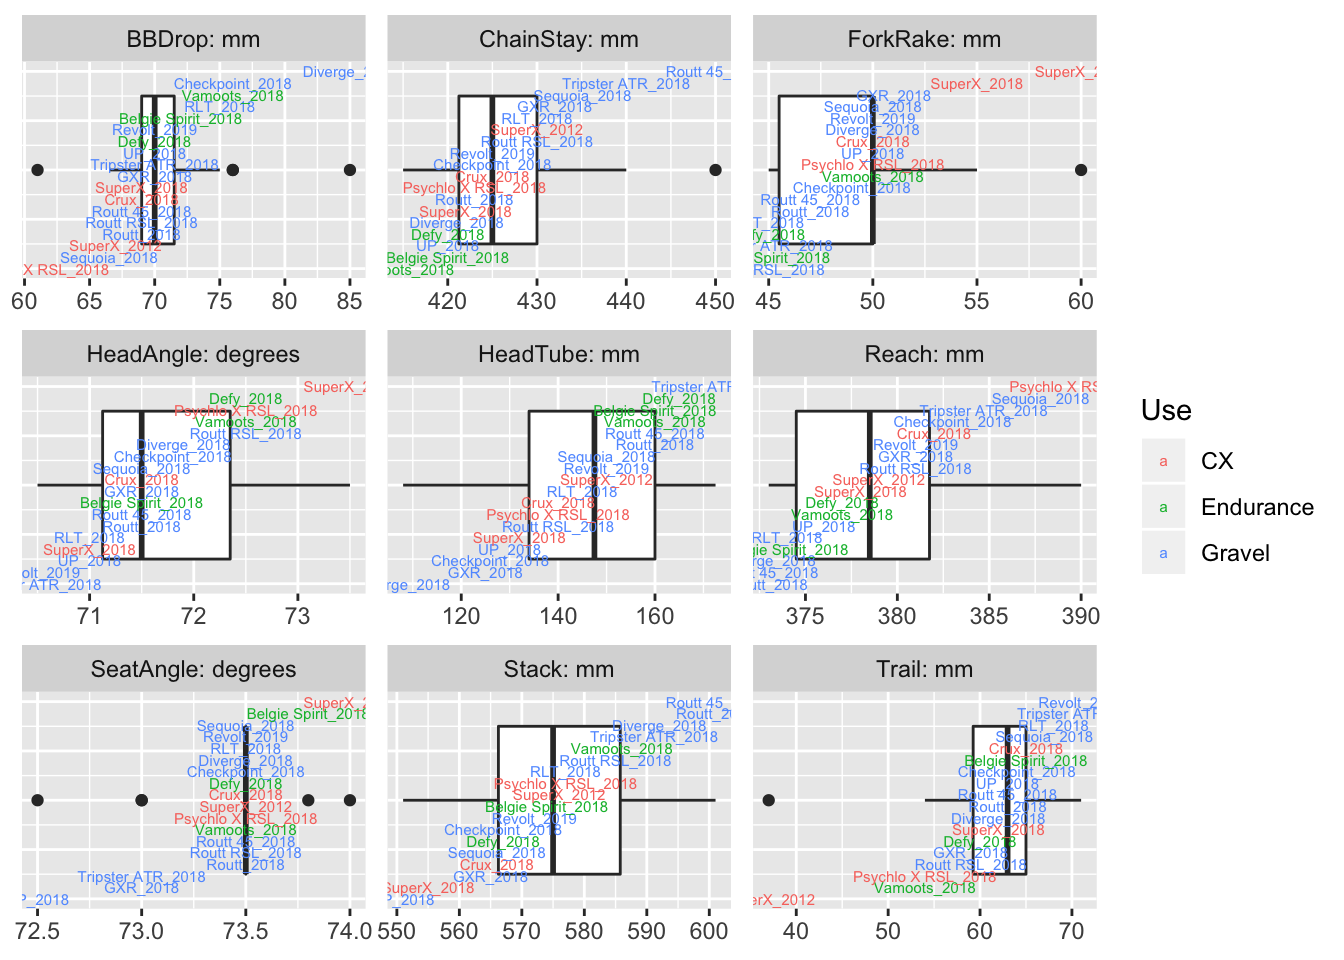
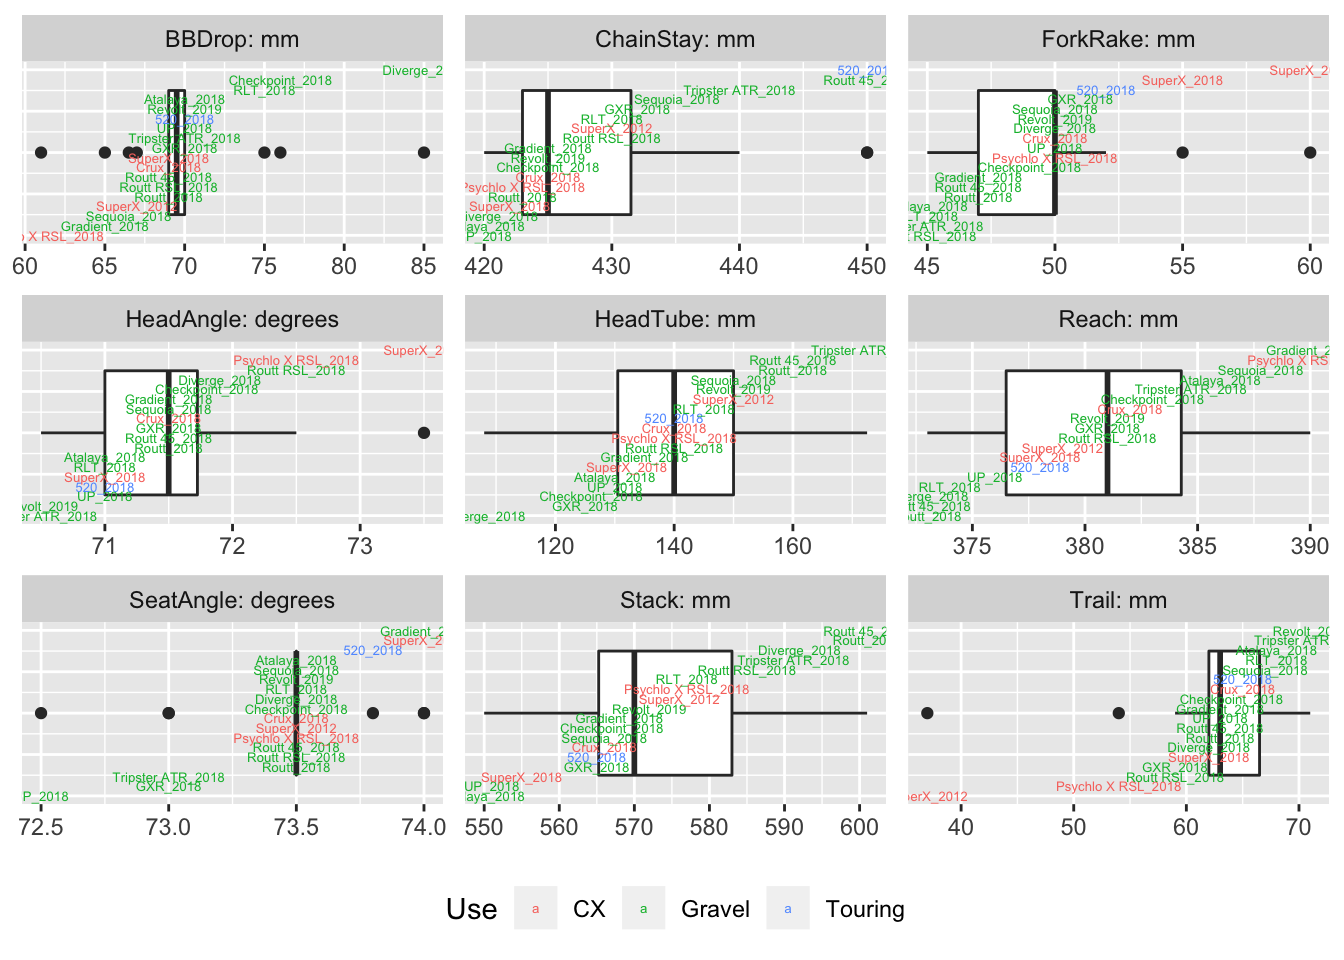
Added atalaya and reilly. Focussed univariate on cx,gravel,touring

diff --git a/public/post/2018-11-08-geometry/index.html b/public/post/2018-11-08-geometry/index.html
@@ -155,31 +155,31 @@ The main guides for the important numbers to chase were:
 <p>Analysing geometries accumulated from the web gives Figure <a href="#fig:pca">1</a> (principal components analysis [pca] on scaled and centred data). The roadies cluster together and appear correlated with high head angle numbers and low chain stay numbers. Then there’s a smear of endurance/gravel bikes with large bottom bracket drop and head tube angles. The CX bikes and mtb bikes are spread on the top half of the figure (with the exception of the Crux_2018). High reach and stack seem correlated with XC. The CX bikes are harder to (visually) correlate with any attribute. The 2012 SuperX is definately an outlier.</p>
 <hr />
 <div class="figure"><span id="fig:pca"></span>
-<img src="/post/2018-11-08-geometry_files/figure-html/pca-1.png" alt="Principal components analysis of key bike geometry values" width="672" />
+<img src="/post/2018-11-08-geometry_files/figure-html/pca-1.png" alt="Principal components analysis of key bike geometry values" width="110%" />
 <p class="caption">
 Figure 1: Principal components analysis of key bike geometry values
 </p>
 </div>
 <hr />
-<p>Here’s the data used in the pca.</p>
-<div id="htmlwidget-1" style="width:100%;height:auto;" class="datatables html-widget"></div>
-<script type="application/json" data-for="htmlwidget-1">{"x":{"filter":"none","data":[["1","2","3","4","5","6","7","8","9","10","11","12","13","14","15","16","17","18","19","20","21","22","23","24","25","26"],["Cannondale","Cannondale","Curve","Curve","Curve","Giant","Giant","Giant","Kinesis","Moots","Moots","Moots","Moots","Moots","Moots","Niner","Niner","Open","Specialized","Specialized","Specialized","Specialized","Specialized","Specialized","Trek","Trek"],["SuperX","SuperX","Belgie","Belgie Spirit","GXR","Defy","Revolt","TCR Ad","Tripster ATR","Psychlo X RSL","Routt","Routt 45","Routt RSL","Vamoots","Vamoots RSL","Air9","RLT","UP","Crux","Diverge","Epic FS","Epic HT","Sequoia","Tarmac","520","Checkpoint"],[2012,2018,2018,2018,2018,2018,2019,2018,2018,2018,2018,2018,2018,2018,2018,2018,2018,2018,2018,2018,2004,2018,2018,2018,2018,2018],["CX","CX","Road","Endurance","Gravel","Endurance","Gravel","Road","Gravel","CX","Gravel","Gravel","Gravel","Endurance","Road","XC","Gravel","Gravel","CX","Gravel","XC","XC","Gravel","Road","Touring","Gravel"],[73.5,74,73.5,73.8,73,73.5,73.5,73,73,73.5,73.5,73.5,73.5,73.5,73.5,73,73.5,72.5,73.5,73.5,74,74,73.5,74,73.8,73.5],[73.5,71,73,71.5,71.5,72.5,70.5,73,70.5,72.5,71.5,71.5,72.5,72.5,73.5,71,71,71,71.5,71.9,70.5,69.8,71.5,73,71,71.8],[67,69,69,72,70,70,70,68,70,61,69,69,69,76,72,54,75,70,69,85,54,61,66.5,72,70,76],[430,422,410,420,432,420,425,405,440,423,423,450,430,415,410,439,430,420,425,421,426,430,435.1,410,450,425],[60,55,45,45,51,45,50,45,45,50,47,47,45,50,43,48,45,50,50,50,57,51,50,44,52,49],[576,555,552,574,565,567,572,545,591.2,577,601,601,585,586,572,617,577,551,566,592,617,608,566,544,565,567],[379,378,381,374,381,377,381,383,384.7,390,373,373,381,377,387,418,374,376,382,373,412,418,387.8,384,378,383],[37,62,56,65,59,60,71,57,71,54,63,63,59,54,55,65,68,63,65,62,59,82,67,58,65,64]],"container":"<table class=\"display\">\n  <thead>\n    <tr>\n      <th> <\/th>\n      <th>Manufacturer<\/th>\n      <th>Frame<\/th>\n      <th>Year<\/th>\n      <th>Use<\/th>\n      <th>SeatAngle<\/th>\n      <th>HeadAngle<\/th>\n      <th>BBDrop<\/th>\n      <th>ChainStay<\/th>\n      <th>ForkRake<\/th>\n      <th>Stack<\/th>\n      <th>Reach<\/th>\n      <th>Trail<\/th>\n    <\/tr>\n  <\/thead>\n<\/table>","options":{"columnDefs":[{"className":"dt-right","targets":[3,5,6,7,8,9,10,11,12]},{"orderable":false,"targets":0}],"order":[],"autoWidth":false,"orderClasses":false}},"evals":[],"jsHooks":[]}</script>
-<hr />
 <p>Focussing on just the gravel (and endurance) bikes gives Figure <a href="#fig:pcaGravel">2</a>. The diverge has a seriously low (large bbdrop) bottom bracket! There doesn’t seem to be much noise about it - only <a href="http://ridinggravel.com/forum/?p=%2Fpost%2F2018-specialized-diverge-bb-too-low-9628528">this</a> intriguing forum post. The UP is close to the middle of everything. Again, the 2012 SuperX is way off compared to the other bikes compared here. It looks like fork rake and head angle are, at least partly, to blame.</p>
 <div class="figure"><span id="fig:pcaGravel"></span>
-<img src="/post/2018-11-08-geometry_files/figure-html/pcaGravel-1.png" alt="PCA for just the grave/endurance bikes" width="672" />
+<img src="/post/2018-11-08-geometry_files/figure-html/pcaGravel-1.png" alt="PCA for just the CX/gravel bikes" width="110%" />
 <p class="caption">
-Figure 2: PCA for just the grave/endurance bikes
+Figure 2: PCA for just the CX/gravel bikes
 </p>
 </div>
 <hr />
-<p>Figure <a href="#fig:uniGeo">3</a> gives a better sense of where a specific bike fits within each geometry attribute. A driver for creating this data set and analysis was to examine the attributes of a 2012 SuperX compared to gravel bikes. It’s clearly an outlier, even among CX bikes, with lowish bbdrop, high fork rake, large head angle and very low trail. The already high bottom bracket is made even higher by running the largest tyres that fit in the frame instead of the 32/33 mm tyres the frame was designed around. Combined, these attributes make the 2012 SuperX skittish at speed on anything loose. It does however handle sharp corners with ease. Time to replace it with something more suitable to its main use - long rides on quiet back roads, fire tracks and trails. The 2018 Defy and UP are closest to the centre of things.</p>
+<p>Figure <a href="#fig:uniGeo">3</a> gives a better sense of where a specific bike fits within each geometry attribute. A driver for creating this data set and analysis was to examine the attributes of a 2012 SuperX compared to gravel bikes. It’s clearly an outlier, even among CX bikes, with lowish bbdrop, high fork rake, large head angle and very low trail. The already high bottom bracket is made even higher by running the largest tyres that fit in the frame instead of the 32/33 mm tyres the frame was designed around. Combined, these attributes make the 2012 SuperX skittish at speed on anything loose. It does however handle sharp corners with ease. Time to replace it with something more suitable to its main use - long rides on quiet back roads, fire tracks and trails.</p>
 <div class="figure"><span id="fig:uniGeo"></span>
-<img src="/post/2018-11-08-geometry_files/figure-html/uniGeo-1.png" alt="Where does each bike fall on each geometry attribute?" width="672" />
+<img src="/post/2018-11-08-geometry_files/figure-html/uniGeo-1.png" alt="Where does each bike fall on each geometry attribute?" width="110%" />
 <p class="caption">
 Figure 3: Where does each bike fall on each geometry attribute?
 </p>
 </div>
+<hr />
+<p>Here’s the data.</p>
+<div id="htmlwidget-1" style="width:100%;height:auto;" class="datatables html-widget"></div>
+<script type="application/json" data-for="htmlwidget-1">{"x":{"filter":"none","data":[["1","2","3","4","5","6","7","8","9","10","11","12","13","14","15","16","17","18","19","20","21","22","23","24","25","26","27","28"],["Atalaya","Cannondale","Cannondale","Curve","Curve","Curve","Giant","Giant","Giant","Kinesis","Moots","Moots","Moots","Moots","Moots","Moots","Niner","Niner","Open","Reilly","Specialized","Specialized","Specialized","Specialized","Specialized","Specialized","Trek","Trek"],["Atalaya","SuperX","SuperX","Belgie","Belgie Spirit","GXR","Defy","Revolt","TCR Ad","Tripster ATR","Psychlo X RSL","Routt","Routt 45","Routt RSL","Vamoots","Vamoots RSL","Air9","RLT","UP","Gradient","Crux","Diverge","Epic FS","Epic HT","Sequoia","Tarmac","520","Checkpoint"],[2018,2012,2018,2018,2018,2018,2018,2019,2018,2018,2018,2018,2018,2018,2018,2018,2018,2018,2018,2018,2018,2018,2004,2018,2018,2018,2018,2018],["Gravel","CX","CX","Road","Endurance","Gravel","Endurance","Gravel","Road","Gravel","CX","Gravel","Gravel","Gravel","Endurance","Road","XC","Gravel","Gravel","Gravel","CX","Gravel","XC","XC","Gravel","Road","Touring","Gravel"],[73.5,73.5,74,73.5,73.8,73,73.5,73.5,73,73,73.5,73.5,73.5,73.5,73.5,73.5,73,73.5,72.5,74,73.5,73.5,74,74,73.5,74,73.8,73.5],[71,73.5,71,73,71.5,71.5,72.5,70.5,73,70.5,72.5,71.5,71.5,72.5,72.5,73.5,71,71,71,71.5,71.5,71.9,70.5,69.8,71.5,73,71,71.8],[70,67,69,69,72,70,70,70,68,70,61,69,69,69,76,72,54,75,70,65,69,85,54,61,66.5,72,70,76],[420,430,422,410,420,432,420,425,405,440,423,423,450,430,415,410,439,430,420,425,425,421,426,430,435.1,410,450,425],[45,60,55,45,45,51,45,50,45,45,50,47,47,45,50,43,48,45,50,47,50,50,57,51,50,44,52,49],[550,576,555,552,574,565,567,572,545,591.2,577,601,601,585,586,572,617,577,551,568,566,592,617,608,566,544,565,567],[386,379,378,381,374,381,377,381,383,384.7,390,373,373,381,377,387,418,374,376,390,382,373,412,418,387.8,384,378,383],[68,37,62,56,65,59,60,71,57,71,54,63,63,59,54,55,65,68,63,63,65,62,59,82,67,58,65,64]],"container":"<table class=\"display\">\n  <thead>\n    <tr>\n      <th> <\/th>\n      <th>Manufacturer<\/th>\n      <th>Frame<\/th>\n      <th>Year<\/th>\n      <th>Use<\/th>\n      <th>SeatAngle<\/th>\n      <th>HeadAngle<\/th>\n      <th>BBDrop<\/th>\n      <th>ChainStay<\/th>\n      <th>ForkRake<\/th>\n      <th>Stack<\/th>\n      <th>Reach<\/th>\n      <th>Trail<\/th>\n    <\/tr>\n  <\/thead>\n<\/table>","options":{"columnDefs":[{"className":"dt-right","targets":[3,5,6,7,8,9,10,11,12]},{"orderable":false,"targets":0}],"order":[],"autoWidth":false,"orderClasses":false}},"evals":[],"jsHooks":[]}</script>
 <hr />
 <div id="acknowledgements" class="section level1">
 <h1>Acknowledgements</h1>

diff --git a/content/post/2018-11-08-geometry.html b/content/post/2018-11-08-geometry.html
@@ -38,31 +38,31 @@ tags:
 <p>Analysing geometries accumulated from the web gives Figure <a href="#fig:pca">1</a> (principal components analysis [pca] on scaled and centred data). The roadies cluster together and appear correlated with high head angle numbers and low chain stay numbers. Then there’s a smear of endurance/gravel bikes with large bottom bracket drop and head tube angles. The CX bikes and mtb bikes are spread on the top half of the figure (with the exception of the Crux_2018). High reach and stack seem correlated with XC. The CX bikes are harder to (visually) correlate with any attribute. The 2012 SuperX is definately an outlier.</p>
 <hr />
 <div class="figure"><span id="fig:pca"></span>
-<img src="/post/2018-11-08-geometry_files/figure-html/pca-1.png" alt="Principal components analysis of key bike geometry values" width="672" />
+<img src="/post/2018-11-08-geometry_files/figure-html/pca-1.png" alt="Principal components analysis of key bike geometry values" width="110%" />
 <p class="caption">
 Figure 1: Principal components analysis of key bike geometry values
 </p>
 </div>
 <hr />
-<p>Here’s the data used in the pca.</p>
-<div id="htmlwidget-1" style="width:100%;height:auto;" class="datatables html-widget"></div>
-<script type="application/json" data-for="htmlwidget-1">{"x":{"filter":"none","data":[["1","2","3","4","5","6","7","8","9","10","11","12","13","14","15","16","17","18","19","20","21","22","23","24","25","26"],["Cannondale","Cannondale","Curve","Curve","Curve","Giant","Giant","Giant","Kinesis","Moots","Moots","Moots","Moots","Moots","Moots","Niner","Niner","Open","Specialized","Specialized","Specialized","Specialized","Specialized","Specialized","Trek","Trek"],["SuperX","SuperX","Belgie","Belgie Spirit","GXR","Defy","Revolt","TCR Ad","Tripster ATR","Psychlo X RSL","Routt","Routt 45","Routt RSL","Vamoots","Vamoots RSL","Air9","RLT","UP","Crux","Diverge","Epic FS","Epic HT","Sequoia","Tarmac","520","Checkpoint"],[2012,2018,2018,2018,2018,2018,2019,2018,2018,2018,2018,2018,2018,2018,2018,2018,2018,2018,2018,2018,2004,2018,2018,2018,2018,2018],["CX","CX","Road","Endurance","Gravel","Endurance","Gravel","Road","Gravel","CX","Gravel","Gravel","Gravel","Endurance","Road","XC","Gravel","Gravel","CX","Gravel","XC","XC","Gravel","Road","Touring","Gravel"],[73.5,74,73.5,73.8,73,73.5,73.5,73,73,73.5,73.5,73.5,73.5,73.5,73.5,73,73.5,72.5,73.5,73.5,74,74,73.5,74,73.8,73.5],[73.5,71,73,71.5,71.5,72.5,70.5,73,70.5,72.5,71.5,71.5,72.5,72.5,73.5,71,71,71,71.5,71.9,70.5,69.8,71.5,73,71,71.8],[67,69,69,72,70,70,70,68,70,61,69,69,69,76,72,54,75,70,69,85,54,61,66.5,72,70,76],[430,422,410,420,432,420,425,405,440,423,423,450,430,415,410,439,430,420,425,421,426,430,435.1,410,450,425],[60,55,45,45,51,45,50,45,45,50,47,47,45,50,43,48,45,50,50,50,57,51,50,44,52,49],[576,555,552,574,565,567,572,545,591.2,577,601,601,585,586,572,617,577,551,566,592,617,608,566,544,565,567],[379,378,381,374,381,377,381,383,384.7,390,373,373,381,377,387,418,374,376,382,373,412,418,387.8,384,378,383],[37,62,56,65,59,60,71,57,71,54,63,63,59,54,55,65,68,63,65,62,59,82,67,58,65,64]],"container":"<table class=\"display\">\n  <thead>\n    <tr>\n      <th> <\/th>\n      <th>Manufacturer<\/th>\n      <th>Frame<\/th>\n      <th>Year<\/th>\n      <th>Use<\/th>\n      <th>SeatAngle<\/th>\n      <th>HeadAngle<\/th>\n      <th>BBDrop<\/th>\n      <th>ChainStay<\/th>\n      <th>ForkRake<\/th>\n      <th>Stack<\/th>\n      <th>Reach<\/th>\n      <th>Trail<\/th>\n    <\/tr>\n  <\/thead>\n<\/table>","options":{"columnDefs":[{"className":"dt-right","targets":[3,5,6,7,8,9,10,11,12]},{"orderable":false,"targets":0}],"order":[],"autoWidth":false,"orderClasses":false}},"evals":[],"jsHooks":[]}</script>
-<hr />
 <p>Focussing on just the gravel (and endurance) bikes gives Figure <a href="#fig:pcaGravel">2</a>. The diverge has a seriously low (large bbdrop) bottom bracket! There doesn’t seem to be much noise about it - only <a href="http://ridinggravel.com/forum/?p=%2Fpost%2F2018-specialized-diverge-bb-too-low-9628528">this</a> intriguing forum post. The UP is close to the middle of everything. Again, the 2012 SuperX is way off compared to the other bikes compared here. It looks like fork rake and head angle are, at least partly, to blame.</p>
 <div class="figure"><span id="fig:pcaGravel"></span>
-<img src="/post/2018-11-08-geometry_files/figure-html/pcaGravel-1.png" alt="PCA for just the grave/endurance bikes" width="672" />
+<img src="/post/2018-11-08-geometry_files/figure-html/pcaGravel-1.png" alt="PCA for just the CX/gravel bikes" width="110%" />
 <p class="caption">
-Figure 2: PCA for just the grave/endurance bikes
+Figure 2: PCA for just the CX/gravel bikes
 </p>
 </div>
 <hr />
-<p>Figure <a href="#fig:uniGeo">3</a> gives a better sense of where a specific bike fits within each geometry attribute. A driver for creating this data set and analysis was to examine the attributes of a 2012 SuperX compared to gravel bikes. It’s clearly an outlier, even among CX bikes, with lowish bbdrop, high fork rake, large head angle and very low trail. The already high bottom bracket is made even higher by running the largest tyres that fit in the frame instead of the 32/33 mm tyres the frame was designed around. Combined, these attributes make the 2012 SuperX skittish at speed on anything loose. It does however handle sharp corners with ease. Time to replace it with something more suitable to its main use - long rides on quiet back roads, fire tracks and trails. The 2018 Defy and UP are closest to the centre of things.</p>
+<p>Figure <a href="#fig:uniGeo">3</a> gives a better sense of where a specific bike fits within each geometry attribute. A driver for creating this data set and analysis was to examine the attributes of a 2012 SuperX compared to gravel bikes. It’s clearly an outlier, even among CX bikes, with lowish bbdrop, high fork rake, large head angle and very low trail. The already high bottom bracket is made even higher by running the largest tyres that fit in the frame instead of the 32/33 mm tyres the frame was designed around. Combined, these attributes make the 2012 SuperX skittish at speed on anything loose. It does however handle sharp corners with ease. Time to replace it with something more suitable to its main use - long rides on quiet back roads, fire tracks and trails.</p>
 <div class="figure"><span id="fig:uniGeo"></span>
-<img src="/post/2018-11-08-geometry_files/figure-html/uniGeo-1.png" alt="Where does each bike fall on each geometry attribute?" width="672" />
+<img src="/post/2018-11-08-geometry_files/figure-html/uniGeo-1.png" alt="Where does each bike fall on each geometry attribute?" width="110%" />
 <p class="caption">
 Figure 3: Where does each bike fall on each geometry attribute?
 </p>
 </div>
+<hr />
+<p>Here’s the data.</p>
+<div id="htmlwidget-1" style="width:100%;height:auto;" class="datatables html-widget"></div>
+<script type="application/json" data-for="htmlwidget-1">{"x":{"filter":"none","data":[["1","2","3","4","5","6","7","8","9","10","11","12","13","14","15","16","17","18","19","20","21","22","23","24","25","26","27","28"],["Atalaya","Cannondale","Cannondale","Curve","Curve","Curve","Giant","Giant","Giant","Kinesis","Moots","Moots","Moots","Moots","Moots","Moots","Niner","Niner","Open","Reilly","Specialized","Specialized","Specialized","Specialized","Specialized","Specialized","Trek","Trek"],["Atalaya","SuperX","SuperX","Belgie","Belgie Spirit","GXR","Defy","Revolt","TCR Ad","Tripster ATR","Psychlo X RSL","Routt","Routt 45","Routt RSL","Vamoots","Vamoots RSL","Air9","RLT","UP","Gradient","Crux","Diverge","Epic FS","Epic HT","Sequoia","Tarmac","520","Checkpoint"],[2018,2012,2018,2018,2018,2018,2018,2019,2018,2018,2018,2018,2018,2018,2018,2018,2018,2018,2018,2018,2018,2018,2004,2018,2018,2018,2018,2018],["Gravel","CX","CX","Road","Endurance","Gravel","Endurance","Gravel","Road","Gravel","CX","Gravel","Gravel","Gravel","Endurance","Road","XC","Gravel","Gravel","Gravel","CX","Gravel","XC","XC","Gravel","Road","Touring","Gravel"],[73.5,73.5,74,73.5,73.8,73,73.5,73.5,73,73,73.5,73.5,73.5,73.5,73.5,73.5,73,73.5,72.5,74,73.5,73.5,74,74,73.5,74,73.8,73.5],[71,73.5,71,73,71.5,71.5,72.5,70.5,73,70.5,72.5,71.5,71.5,72.5,72.5,73.5,71,71,71,71.5,71.5,71.9,70.5,69.8,71.5,73,71,71.8],[70,67,69,69,72,70,70,70,68,70,61,69,69,69,76,72,54,75,70,65,69,85,54,61,66.5,72,70,76],[420,430,422,410,420,432,420,425,405,440,423,423,450,430,415,410,439,430,420,425,425,421,426,430,435.1,410,450,425],[45,60,55,45,45,51,45,50,45,45,50,47,47,45,50,43,48,45,50,47,50,50,57,51,50,44,52,49],[550,576,555,552,574,565,567,572,545,591.2,577,601,601,585,586,572,617,577,551,568,566,592,617,608,566,544,565,567],[386,379,378,381,374,381,377,381,383,384.7,390,373,373,381,377,387,418,374,376,390,382,373,412,418,387.8,384,378,383],[68,37,62,56,65,59,60,71,57,71,54,63,63,59,54,55,65,68,63,63,65,62,59,82,67,58,65,64]],"container":"<table class=\"display\">\n  <thead>\n    <tr>\n      <th> <\/th>\n      <th>Manufacturer<\/th>\n      <th>Frame<\/th>\n      <th>Year<\/th>\n      <th>Use<\/th>\n      <th>SeatAngle<\/th>\n      <th>HeadAngle<\/th>\n      <th>BBDrop<\/th>\n      <th>ChainStay<\/th>\n      <th>ForkRake<\/th>\n      <th>Stack<\/th>\n      <th>Reach<\/th>\n      <th>Trail<\/th>\n    <\/tr>\n  <\/thead>\n<\/table>","options":{"columnDefs":[{"className":"dt-right","targets":[3,5,6,7,8,9,10,11,12]},{"orderable":false,"targets":0}],"order":[],"autoWidth":false,"orderClasses":false}},"evals":[],"jsHooks":[]}</script>
 <hr />
 <div id="acknowledgements" class="section level1">
 <h1>Acknowledgements</h1>
